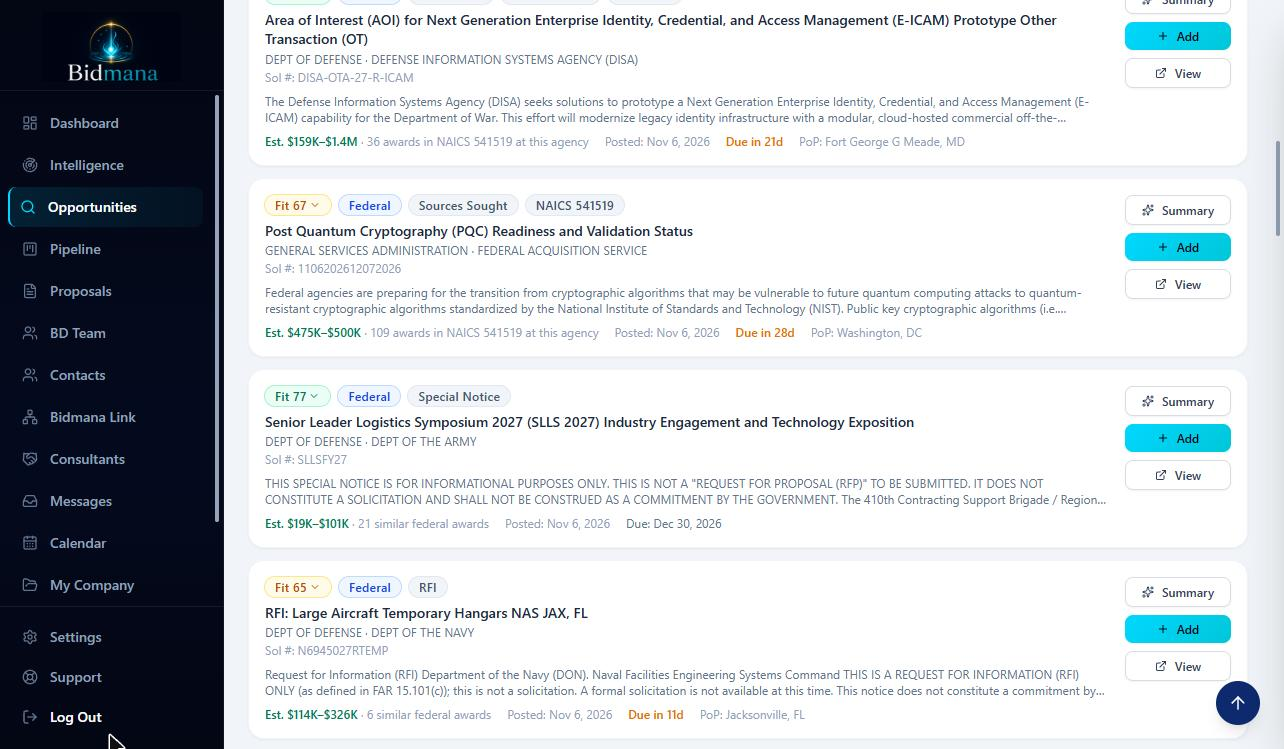
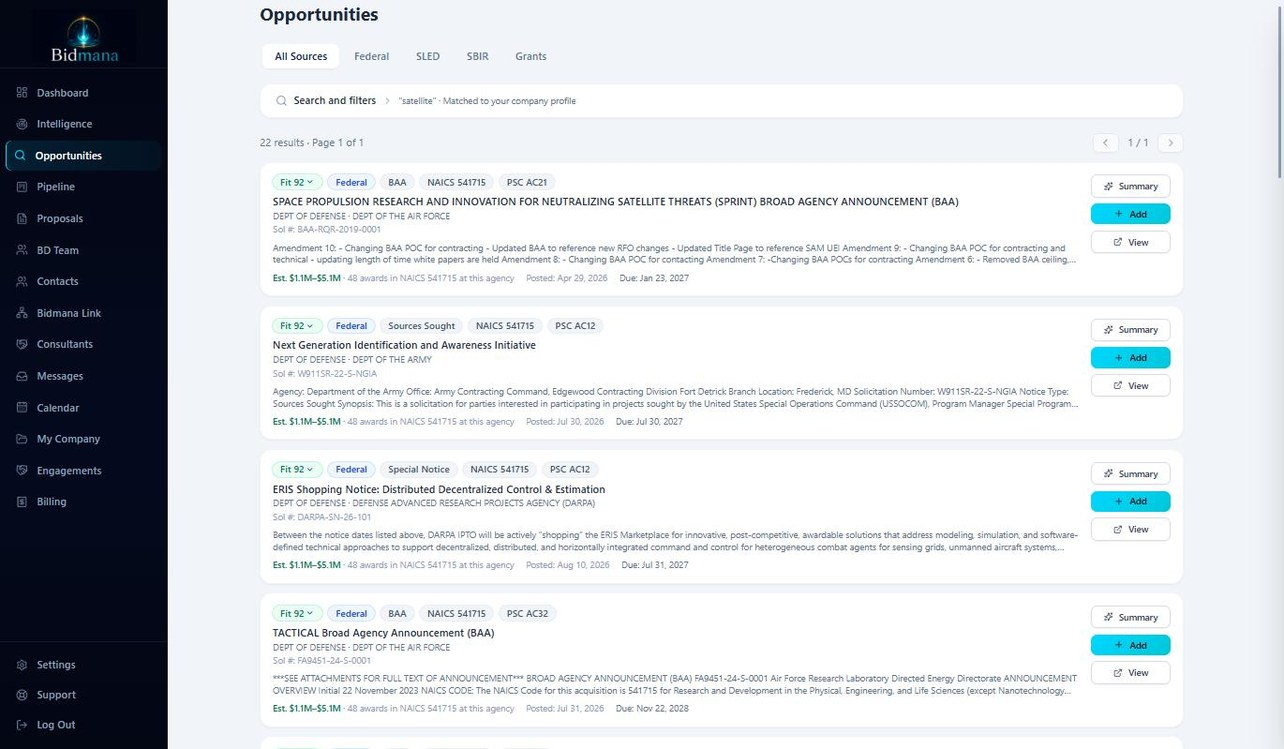
Showcase: opportunities screenshot retaken, no feedback bubble

diff --git a/index.html b/index.html
@@ -97,7 +97,7 @@
             <img src="assets/showcase/intelligence.jpg" alt="Intelligence analytics: win rate, pipeline by stage and predicted versus actual win probability" loading="lazy" width="1284" height="749" />
           </figure>
           <figure class="shot-screen" id="shot-opportunities" role="tabpanel" aria-labelledby="tab-opportunities" hidden>
-            <img src="assets/showcase/opportunities.jpg" alt="Opportunity search results with fit scores, estimated values, due dates and one-click add to pipeline" loading="lazy" width="1284" height="749" />
+            <img src="assets/showcase/opportunities.jpg?v=20261116" alt="Opportunity search results with fit scores, estimated values, due dates and one-click add to pipeline" loading="lazy" width="1284" height="749" />
           </figure>
           <figure class="shot-screen" id="shot-pipeline" role="tabpanel" aria-labelledby="tab-pipeline" hidden>
             <img src="assets/showcase/pipeline.jpg" alt="The pipeline board: pursuits moving from Tracking through Qualifying and Pursuing to Proposal, each with its files, win probability and due date" loading="lazy" width="1284" height="749" />
